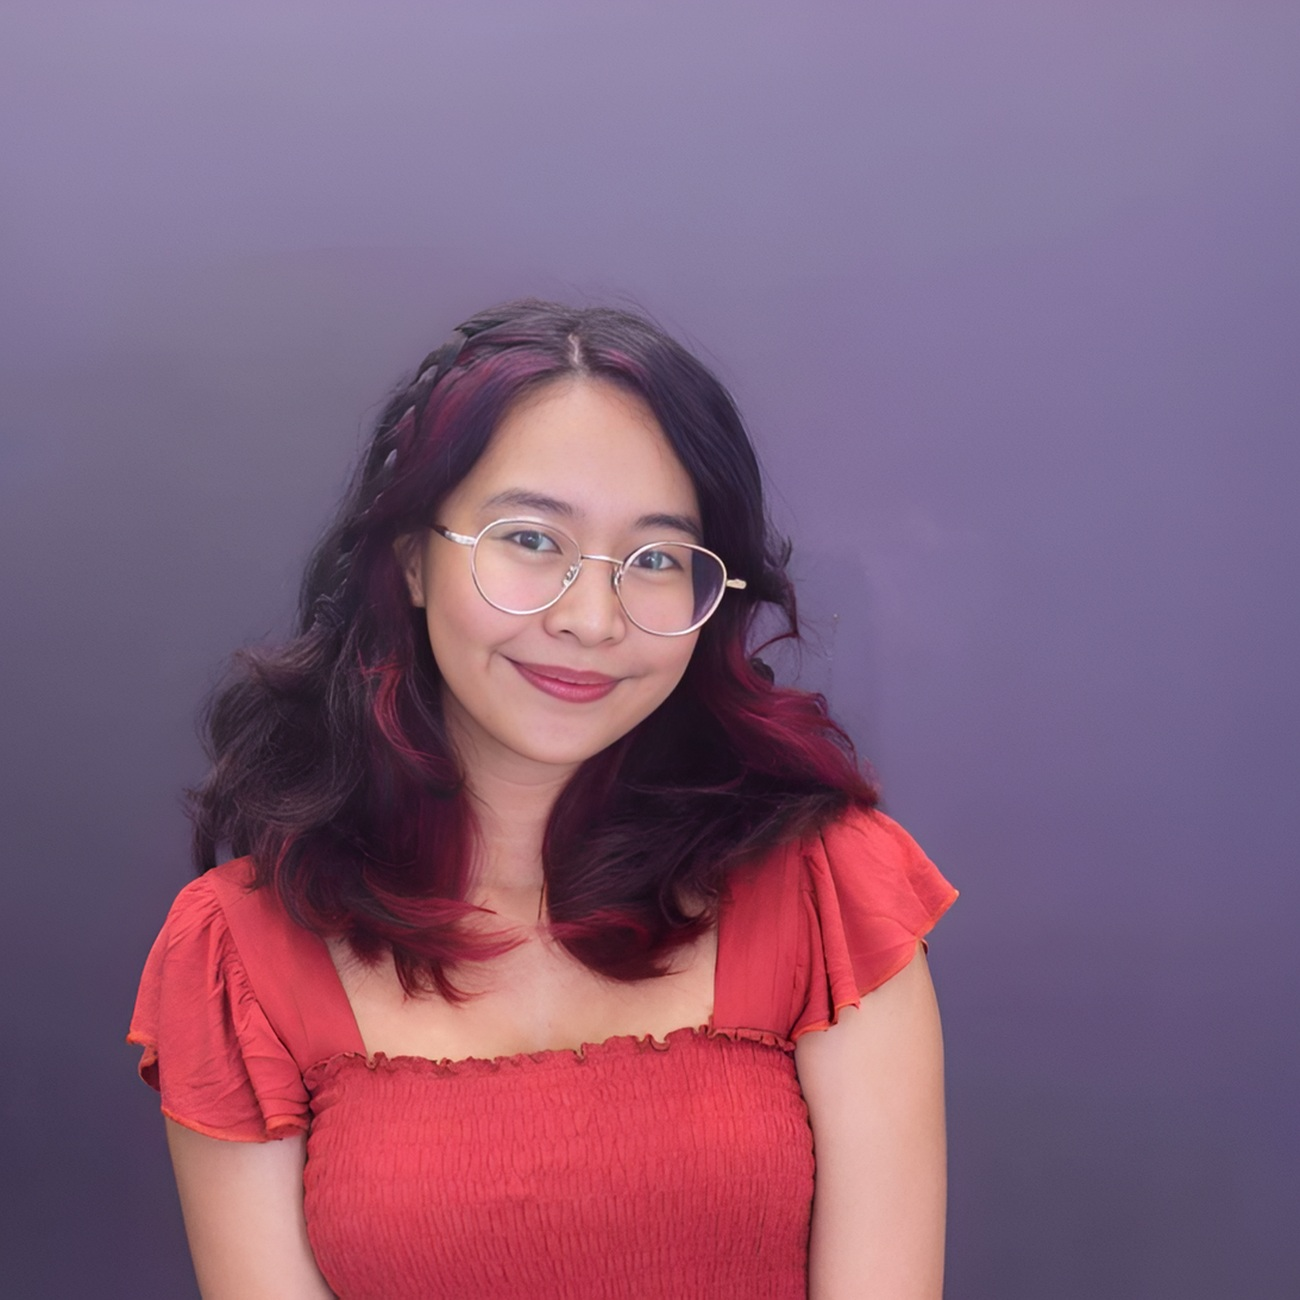
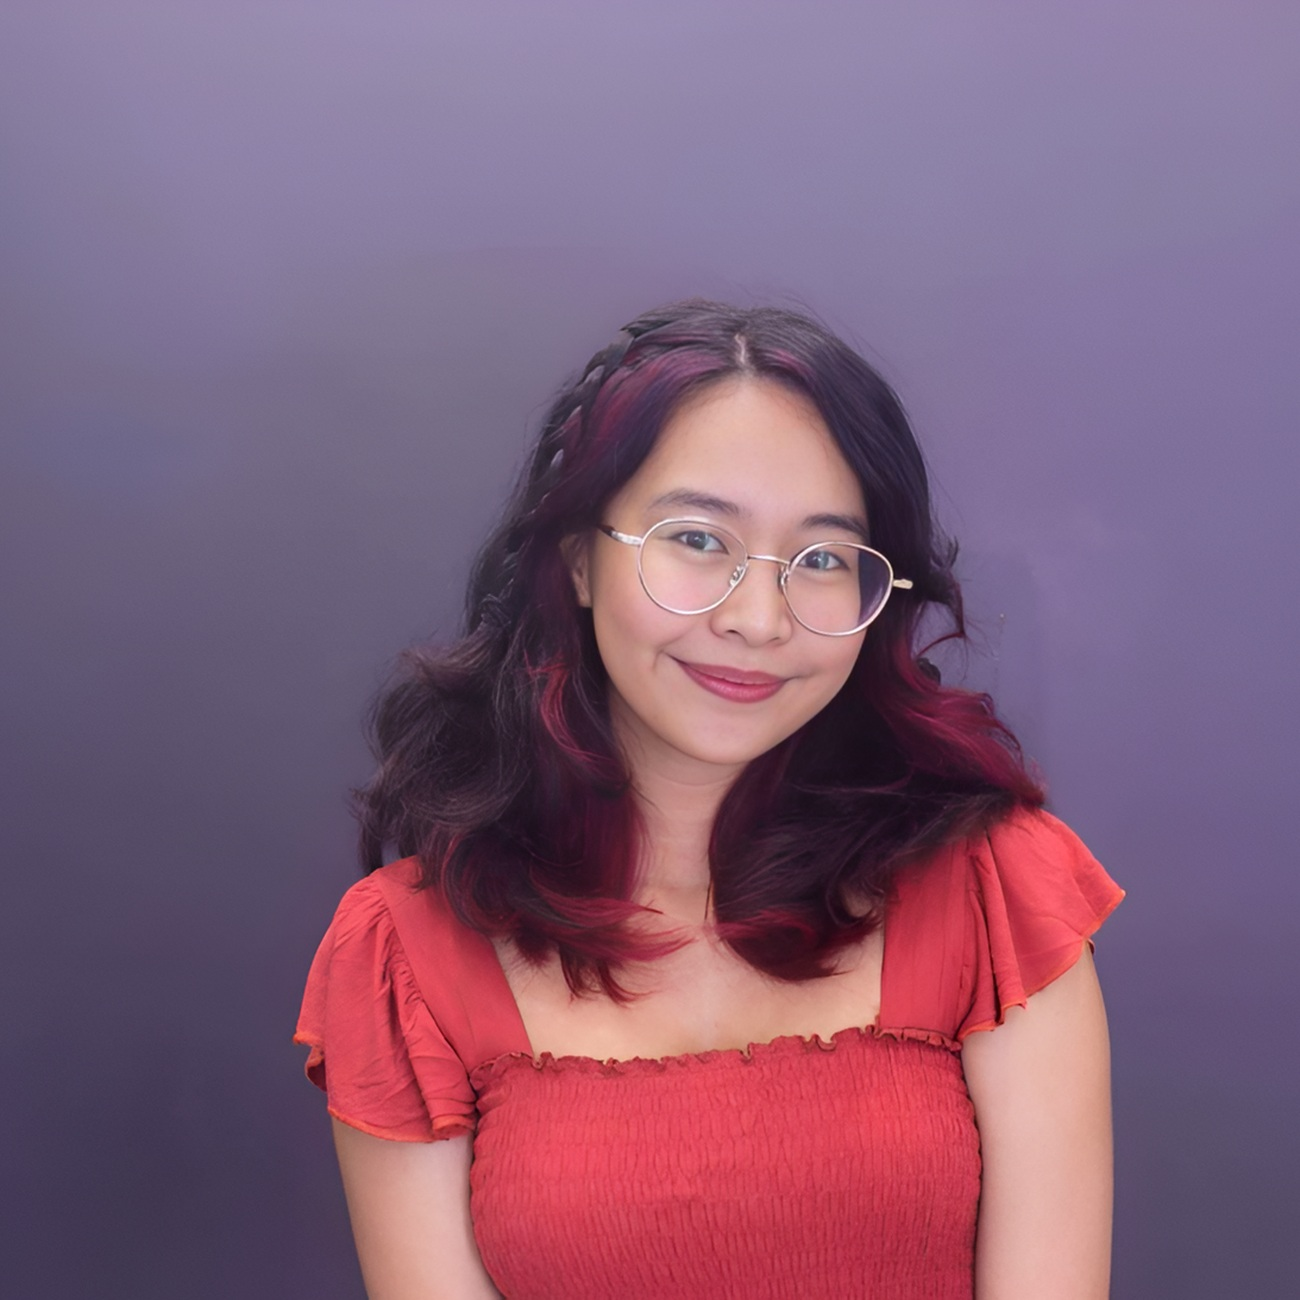
Polish experience section and one-page resume

diff --git a/index.html b/index.html
@@ -36,6 +36,11 @@
       color: #766693;
     }
 
+    .about-photo {
+      width: min(100%, 520px);
+      margin: 0 auto;
+    }
+
     html { scroll-behavior: smooth; }
 
     body {
@@ -196,6 +201,7 @@
       width: 100%;
       aspect-ratio: 1 / 1;
       object-fit: cover;
+      object-position: center center;
       border: 1px solid var(--border);
       border-radius: 1rem;
       box-shadow: 0 14px 32px rgba(15, 23, 42, 0.08);
@@ -299,11 +305,38 @@
       transform: scale(1.08);
     }
 
+    .experience-item {
+      display: flex;
+      align-items: flex-start;
+      gap: 1.1rem;
+    }
+
+    .experience-logo {
+      flex: 0 0 58px;
+      width: 58px;
+      height: 58px;
+      padding: 0.55rem;
+      object-fit: contain;
+      border: 1px solid #e5dcd7;
+      border-radius: 12px;
+      background: #fffdfa;
+    }
+
+    .experience-content {
+      flex: 1;
+      min-width: 0;
+    }
+
     #resume-print {
       display: none;
     }
 
     @media print {
+      @page {
+        size: Letter;
+        margin: 0.35in;
+      }
+
       body.printing-resume > *:not(#resume-print) {
         display: none !important;
       }
@@ -319,63 +352,65 @@
       }
 
       .resume-page {
-        max-width: 8in;
+        width: 100%;
+        max-height: 10.3in;
         margin: 0 auto;
-        padding: 0.25in 0;
+        overflow: hidden;
+        padding: 0;
       }
 
       .resume-header {
-        border-bottom: 2px solid #665a76;
-        padding-bottom: 0.12in;
-        margin-bottom: 0.18in;
+        border-bottom: 1px solid #111827;
+        padding-bottom: 0.08in;
+        margin-bottom: 0.1in;
       }
 
       .resume-header h1 {
         margin: 0;
-        color: #433b50;
-        font-size: 24pt;
+        color: #111827;
+        font-size: 19pt;
       }
 
       .resume-header p {
         margin: 0.04in 0 0;
-        color: #665a76;
-        font-size: 10pt;
+        color: #111827;
+        font-size: 9pt;
         font-weight: 700;
       }
 
       .resume-contact {
-        margin-top: 0.06in;
+        margin-top: 0.03in;
         color: #4b5563;
-        font-size: 8.5pt;
+        font-size: 7.5pt;
       }
 
       .resume-section {
-        margin-bottom: 0.16in;
+        margin-bottom: 0.09in;
       }
 
       .resume-section h2 {
         margin: 0 0 0.05in;
-        color: #665a76;
-        font-size: 11pt;
+        color: #111827;
+        font-size: 9pt;
         text-transform: uppercase;
         letter-spacing: 0.06em;
       }
 
       .resume-section p {
         margin: 0 0 0.05in;
-        font-size: 9pt;
-        line-height: 1.35;
+        font-size: 7.5pt;
+        line-height: 1.2;
       }
 
       .resume-item {
-        margin-bottom: 0.08in;
+        margin-bottom: 0.04in;
         break-inside: avoid;
       }
 
       .resume-item h3 {
         margin: 0;
         color: #1f2937;
-        font-size: 9.5pt;
+        font-size: 8pt;
       }
 
       .resume-item p {
@@ -383,8 +418,7 @@
       }
 
       .resume-skills {
-        columns: 2;
-        column-gap: 0.35in;
+        columns: 1;
       }
 
       .resume-skills p {
@@ -445,8 +479,10 @@
 <section id="about" class="py-5">
   <div class="container">
     <div class="row align-items-start g-4 reveal">
-      <div class="col-md-5 text-center">
+      <div class="col-md-5 text-center d-flex justify-content-center">
+        <div class="about-photo">
         <img src="assets/images/about/profile.jpg" alt="Maki professional portrait" class="img-fluid profile-img" />
+        </div>
       </div>
 
       <div class="col-md-7">
@@ -511,40 +547,55 @@
         </p>
       </div>
 
-      <div class="row g-4 justify-content-center">
+      <div class="row g-3 justify-content-center">
         <div class="col-md-10">
           <div class="section-block">
-            <h6 class="fw-semibold mb-1">Sustainability Data Analyst · Institutional Shareholder Services</h6>
-            <p class="muted small mb-2">April 2024 – Present</p>
-            <p class="muted small mb-0">
-              Validate, clean, and reconcile EU Taxonomy sustainability data for 5,000+ companies,
-              consistently delivering 99.07% accuracy against daily and weekly performance KPIs.
-              Investigate discrepancies across systems, maintain audit-ready documentation, escalate
-              Jira issues, and support post-publication data-quality checks.
-            </p>
+            <div class="experience-item">
+              <img src="assets/images/experience/iss.png" alt="Institutional Shareholder Services logo" class="experience-logo" />
+              <div class="experience-content">
+                <h6 class="fw-semibold mb-1">Sustainability Data Analyst · Institutional Shareholder Services</h6>
+                <p class="muted small mb-2">April 2024 – Present</p>
+                <p class="muted small mb-0">
+                  Validate, clean, and reconcile EU Taxonomy sustainability data for 5,000+ companies,
+                  consistently delivering 99.07% accuracy against daily and weekly performance KPIs.
+                  Investigate discrepancies across systems, maintain audit-ready documentation, escalate
+                  Jira issues, and support post-publication data-quality checks.
+                </p>
+              </div>
+            </div>
           </div>
         </div>
 
         <div class="col-md-10">
           <div class="section-block">
-            <h6 class="fw-semibold mb-1">Research Assistant II · Quantitative Aquatics</h6>
-            <p class="muted small mb-2">October 2022 – October 2023</p>
-            <p class="muted small mb-0">
-              Cleaned, validated, and standardized 1,000+ species records in the global FishBase
-              database while collaborating with international researchers to resolve inconsistencies
-              and improve cross-dataset reliability.
-            </p>
+            <div class="experience-item">
+              <img src="assets/images/experience/quantitative-aquatics.png" alt="Quantitative Aquatics logo" class="experience-logo" />
+              <div class="experience-content">
+                <h6 class="fw-semibold mb-1">Research Assistant II · Quantitative Aquatics</h6>
+                <p class="muted small mb-2">October 2022 – October 2023</p>
+                <p class="muted small mb-0">
+                  Cleaned, validated, and standardized 1,000+ species records in the global FishBase
+                  database while collaborating with international researchers to resolve inconsistencies
+                  and improve cross-dataset reliability.
+                </p>
+              </div>
+            </div>
           </div>
         </div>
 
         <div class="col-md-10">
           <div class="section-block">
-            <h6 class="fw-semibold mb-1">Research Support · Livingston Research</h6>
-            <p class="muted small mb-2">September 2016 – January 2018</p>
-            <p class="muted small mb-0">
-              Produced structured research outputs across multiple disciplines, strengthening
-              research synthesis, documentation, and clear communication of complex topics.
-            </p>
+            <div class="experience-item">
+              <img src="assets/images/experience/livingston-research.png" alt="Livingston Research logo" class="experience-logo" />
+              <div class="experience-content">
+                <h6 class="fw-semibold mb-1">Research Support · Livingston Research</h6>
+                <p class="muted small mb-2">September 2016 – January 2018</p>
+                <p class="muted small mb-0">
+                  Produced structured research outputs across multiple disciplines, strengthening
+                  research synthesis, documentation, and clear communication of complex topics.
+                </p>
+              </div>
+            </div>
           </div>
         </div>
       </div>
@@ -1224,6 +1275,10 @@
         '"': "&quot;",
         "'": "&#039;"
       }[character]));
+      const compact = (value, limit) => {
+        const normalized = value.replace(/\s+/g, " ").trim();
+        return normalized.length > limit ? `${normalized.slice(0, limit).replace(/\s+\S*$/, "")}...` : normalized;
+      };
       const aboutParagraphs = items("#about .about-panel > p")
         .map((item) => item.textContent.trim())
         .filter((item) => item && !item.startsWith("Currently documenting"));
@@ -1242,7 +1297,7 @@
       const education = items("#education .section-block").map((block) => ({
         title: block.querySelector("h6")?.textContent.trim() || "",
         description: [...block.querySelectorAll("p")].map((item) => item.textContent.trim()).join(" ")
-      })).filter((item) => item.title);
+      })).filter((item) => item.title).slice(-3);
 
       resumePrint.innerHTML = `
         <div class="resume-page">
@@ -1253,25 +1308,25 @@
           </header>
           <section class="resume-section">
             <h2>Profile</h2>
-            ${aboutParagraphs.map((item) => `<p>${escapeHtml(item)}</p>`).join("")}
+            <p>${escapeHtml(compact(aboutParagraphs[0] || "Data analyst transitioning into data engineering with experience in ESG data quality, research data, SQL, and Databricks workflows.", 320))}</p>
           </section>
           <section class="resume-section">
             <h2>Experience</h2>
-            ${experience.map((item) => `<div class="resume-item"><h3>${escapeHtml(item.title)}</h3><p>${escapeHtml(item.description)}</p></div>`).join("")}
+            ${experience.map((item) => `<div class="resume-item"><h3>${escapeHtml(item.title)}</h3><p>${escapeHtml(compact(item.description, 360))}</p></div>`).join("")}
           </section>
           <section class="resume-section">
             <h2>Selected Case Studies</h2>
-            ${caseStudies.map((item) => `<div class="resume-item"><h3>${escapeHtml(item.title)}</h3><p>${escapeHtml(item.description)}</p></div>`).join("")}
+            ${caseStudies.map((item) => `<div class="resume-item"><h3>${escapeHtml(item.title)}</h3><p>${escapeHtml(compact(item.description, 190))}</p></div>`).join("")}
           </section>
           <section class="resume-section">
             <h2>Technical Skills</h2>
             <div class="resume-skills">
-              ${skills.map((item) => `<p><strong>${escapeHtml(item.title)}:</strong> ${escapeHtml(item.description)}</p>`).join("")}
+              ${skills.map((item) => `<p><strong>${escapeHtml(item.title)}:</strong> ${escapeHtml(compact(item.description, 130))}</p>`).join("")}
             </div>
           </section>
           <section class="resume-section">
             <h2>Education & Credentials</h2>
-            ${education.map((item) => `<div class="resume-item"><h3>${escapeHtml(item.title)}</h3><p>${escapeHtml(item.description)}</p></div>`).join("")}
+            ${education.map((item) => `<div class="resume-item"><h3>${escapeHtml(item.title)}</h3><p>${escapeHtml(compact(item.description, 190))}</p></div>`).join("")}
           </section>
         </div>`;
 
